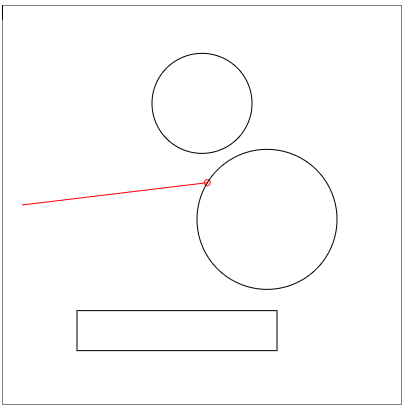
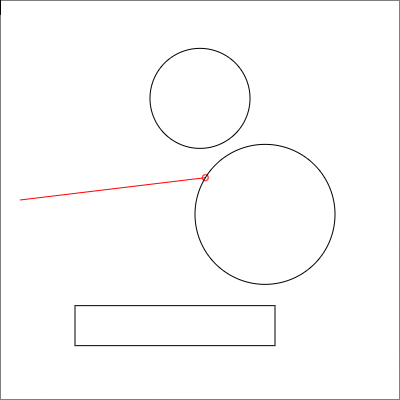
Center demonstrations in the window, rename files

diff --git a/raymarching/index2D.html b/raymarching/index2D.html
@@ -14,19 +14,14 @@
     </style>
 </head>
 <body>
-
     <div class="flex">
-        <h2>Welcome to my 3D RayMarching Experiment</h2>
-
-        <!-- The canvas is small so it renders fast, make it bigger with CSS so it is easier to see -->
-        <canvas id="mainCanvas" width="320" height="180" style="border:1px solid;width:500px">
+        <h2>Welcome to my 2D RayMarching Experiment</h2>
+        <canvas onmousemove="storeMousePos(event)" id="mainCanvas" width="400" height="400">
             Canvas not supported: please update your browser.
         </canvas>
-        <p id="fpsDisplay">FPS: 10</p>
     </div>
 
-
     <!-- JavaScript (my code, jquery)-->
-    <script src="raymarching3D.js"></script>
+    <script src="raymarching2D.js"></script>
 </body>
 </html>

diff --git a/raymarching/readme.md b/raymarching/readme.md
@@ -2,10 +2,10 @@
 
 Raymarching is a rendering method in which rays are "marched" from light sources until they hit something.
 The path the light ray travels and what it hits affect how the pixel is rendered.
-To run the examples, open `index.html` or `index3D.html` in your browser.
+To run the examples, open `index2D.html` or `index3D.html` in your browser.
 
 ## 2D Raymarching
-`index.html` runs an interactive 2D raymarching world, where the algorithm is used to determine when a ray hits a shape. 
+`index2D.html` runs an interactive 2D raymarching world, where the algorithm is used to determine when a ray hits a shape.
 ![2D raymarching](media/raymarching_2d.png)
 
 ## 3D Raymarching
